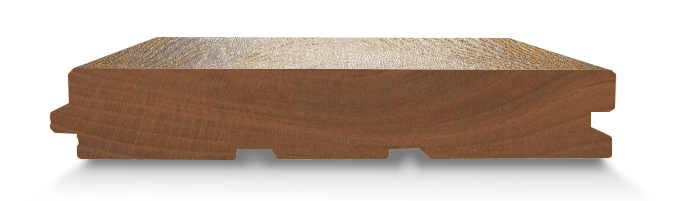
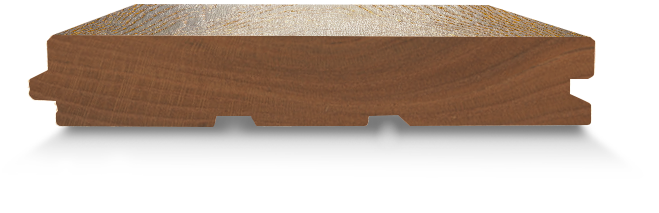
parquet-elka tablet layout

diff --git a/styles.css b/styles.css
@@ -676,9 +676,9 @@ main, footer, header {
   .massive-board-block__content .massive-board-image {
     position: relative; }
     .massive-board-block__content .massive-board-image .wood {
-      position: relative;
-      left: -75px;
-      top: -30px; }
+      position: relative; }
+  .massive-board-block__content .samples-block {
+    display: none; }
   @media (max-width: 1080px) {
     .massive-board-block__content h2 {
       font-size: 40px;
@@ -695,7 +695,15 @@ main, footer, header {
         line-height: 20px;
         margin: 0 0 40px 0; }
     .massive-board-block__content .circle--no-tablet {
-      display: none; } }
+      display: none; }
+    .massive-board-block__content .samples-block--tablet {
+      display: flex;
+      margin-bottom: 80px; }
+      .massive-board-block__content .samples-block--tablet .sample-circle {
+        border: none; }
+    .massive-board-block__content .massive-board-image .wood {
+      left: 0;
+      top: 0; } }
 
 .elka-parquet-block__wrapper {
   height: 945px;
@@ -714,6 +722,14 @@ main, footer, header {
     line-height: 27px;
     font-weight: 500;
     width: 668px; }
+  @media (max-width: 1080px) {
+    .elka-parquet-block__content h2 {
+      font-size: 40px;
+      line-height: 48px; }
+    .elka-parquet-block__content p {
+      font-size: 20px;
+      line-height: 24px;
+      width: 448px; } }
 
 .elka-parquet-block__content-simples {
   display: flex;
@@ -723,6 +739,11 @@ main, footer, header {
     margin: 50px 0 70px 0;
     display: flex;
     justify-content: center; }
+  @media (max-width: 1080px) {
+    .elka-parquet-block__content-simples .samples-block .label {
+      font-size: 18px;
+      line-height: 20px;
+      padding: 15px; } }
 
 .art-parquet-block__wrapper {
   padding: 85px 0 71px 0; }

diff --git a/styles.scss b/styles.scss
@@ -902,9 +902,12 @@ main, footer, header {
     position: relative;
     .wood {
       position: relative;
-      left: -75px;
-      top: -30px;
+      //left: -75px;
+      //top: -30px;
     }
+  }
+  .samples-block {
+    display: none;
   }
   @media (max-width: $tablet) {
     h2 {
@@ -930,6 +933,19 @@ main, footer, header {
     .circle--no-tablet {
       display: none;
     }
+    .samples-block--tablet {
+      display: flex;
+      margin-bottom: 80px;
+      .sample-circle {
+        border: none;
+      }
+    }
+    .massive-board-image {
+      .wood {
+        left: 0;
+        top: 0;
+      }
+    }
   }
 }
 
@@ -954,6 +970,20 @@ main, footer, header {
     //margin-bottom: 47px;
     width: 668px;
   }
+  @media (max-width: $tablet) {
+    h2 {
+      font-size: 40px;
+      line-height: 48px;
+      //margin: 0 0 60px 0;
+    }
+    p {
+      font-size: 20px;
+      line-height: 24px;
+      //font-weight: 500;
+      //margin-bottom: 47px;
+       width: 448px;
+    }
+  }
 }
 .elka-parquet-block__content-simples {
   display: flex;
@@ -964,6 +994,17 @@ main, footer, header {
     display: flex;
     justify-content: center;
 
+  }
+  @media (max-width: $tablet) {
+    .samples-block {
+
+      .label {
+
+        font-size: 18px;
+        line-height: 20px;
+        padding: 15px;
+      }
+    }
   }
 }
 
